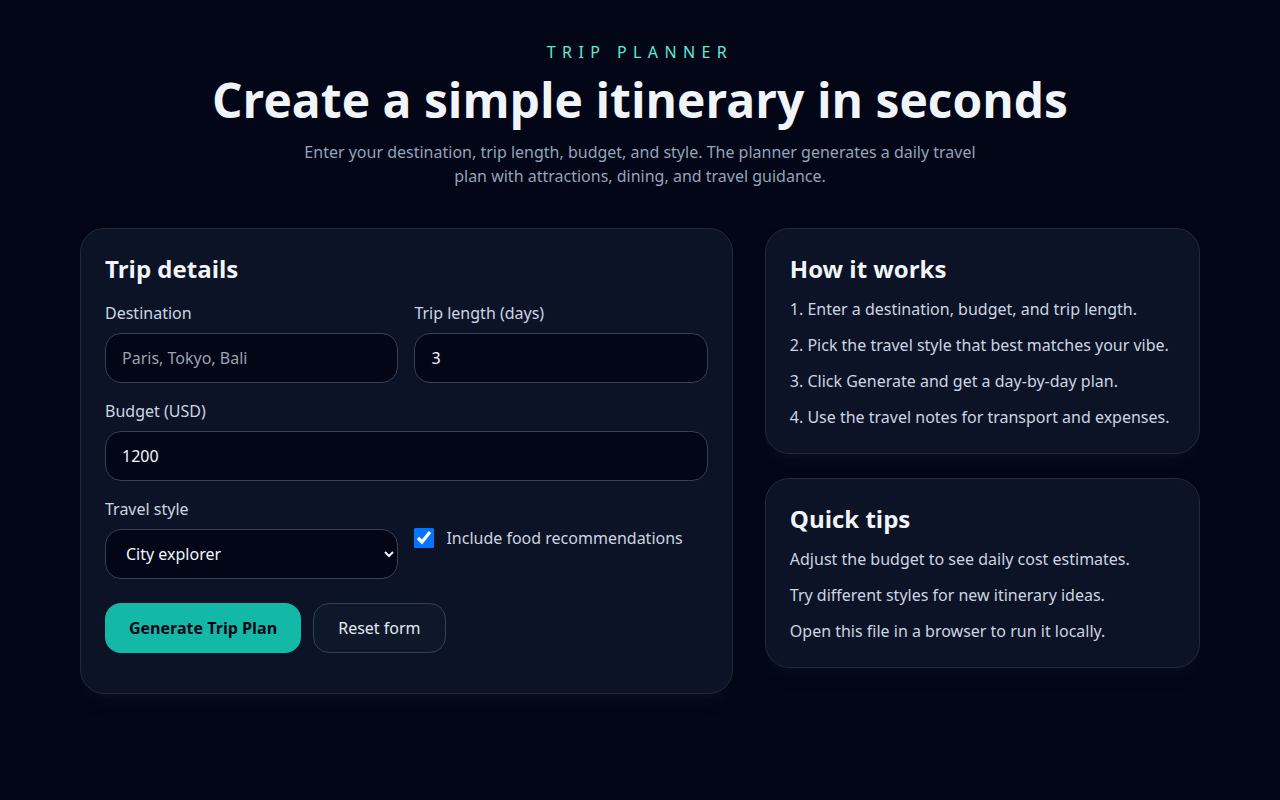
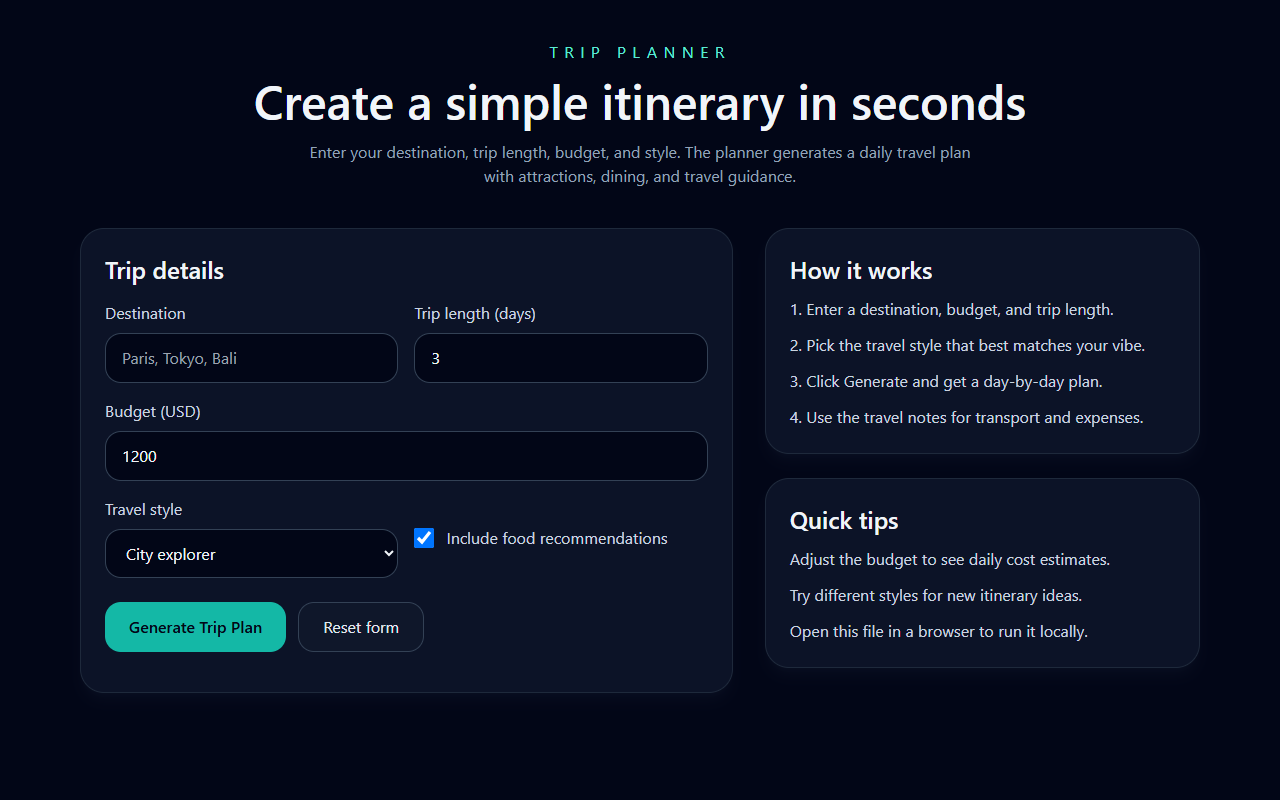
move screenshots path

diff --git a/susandarlin/report.md b/susandarlin/report.md
@@ -1,0 +1,36 @@
+# ch-6 Personal Project — Report
+
+## Project
+
+- **GitHub username:** @susandarlin
+- **Repo URL:** https://github.com/susandarlin/trip_planner
+- **Live URL (deployed, public):** https://trip-planner-mu-taupe.vercel.app/
+- **License:** MIT
+
+## Issues Closed (from Chapter 5 feedback)
+
+| # | Issue | Closed link | Fixed with (AI agent / MCP / skill) |
+|---|---|---|---|
+| 1 | Generic evenings — every day ended with "Dinner & evening leisure" instead of real restaurant names | [feedback.md #2](../../feedback/feedback.md) | `destination-agent` + OpenStreetMap MCP (`find_nearby_places`) to fetch restaurants; `schedule` agent + trip-planner skill rule #4 to put real names (or style-based cuisine fallbacks) in each evening slot |
+| 2 | Slow loading UX — spinner only said "Generating…" with no progress | [feedback.md #4](../../feedback/feedback.md) | Frontend polish in `app.js`: step-by-step loading UI (`Looking up destination…` → attractions → budget → itinerary) while waiting on the generate API |
+
+## Polish
+
+- **UI/UX polish:** Added multi-step progress indicator during generation; evening slots now show real restaurant recommendations (or cuisine suggestions) instead of a generic placeholder
+- **Chrome DevTools / Playwright used:** Yes — Chrome (headless via Puppeteer; Chrome DevTools MCP configured in `.mcp.json`) to capture polished UI screenshots at fixed resolution
+- **README polished:** [README.md](../../README.md)
+- **Analytics added:** None
+
+## Updated Screenshots
+
+- **Resolution used:** 1280×800 desktop
+
+![screenshot 1 — Default trip planner view (City explorer)](../screenshots/screenshot-default-view.png)
+![screenshot 2 — Trip details filled (Tokyo, City explorer)](../screenshots/screenshot-sample-data.png)
+![screenshot 3 — Generated daily plan with City explorer style](../screenshots/screenshot-daily-plan.png)
+
+## Gallery Card (this project goes public)
+
+- **Title:** Trip Planner
+- **One-line description:** Live, data-driven trip plans powered by OpenStreetMap, Claude skills, and AI agents
+- **Slides path:** slides/pitch.md
